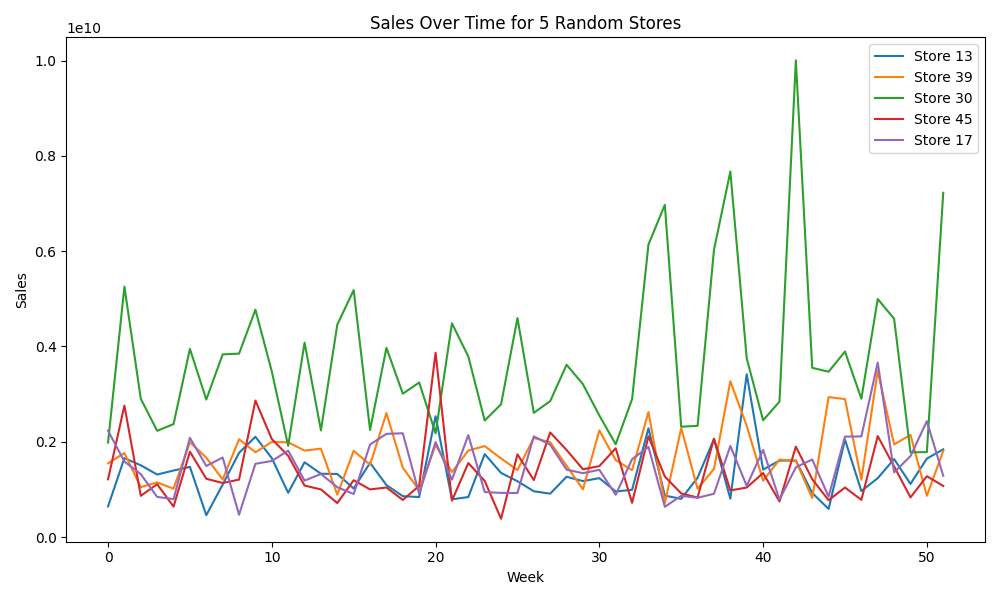
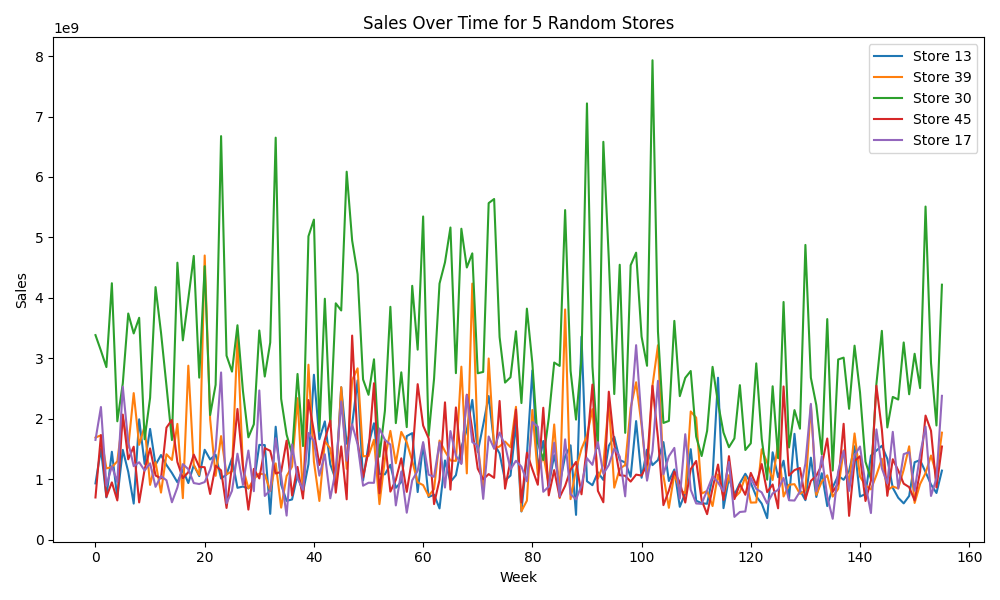
reran and adjusted visualizations

diff --git a/data_gen/data_viz.py b/data_gen/data_viz.py
@@ -173,7 +173,6 @@ plt.savefig(fig_dir / "sales_vs_ad_spend.png")
 plt.close()
 
 
-breakpoint()
 
 # 3. Sales vs store size scatterplot
 plt.figure(figsize=(6, 5))
@@ -225,7 +224,7 @@ plt.close()
 
 # 5. Sales vs relative price scatterplot
 plt.figure(figsize=(6, 5))
-plt.scatter(df["relative_price"], df["sales"], alpha=0.3)
+plt.scatter(df_panel["relative_price"], df_panel["sales"], alpha=0.3)
 plt.xlabel("Relative Price (Competitor Price / Own Price)")
 plt.ylabel("Sales")
 plt.title("Sales vs Relative Price")
@@ -235,13 +234,13 @@ plt.close()
 # 6. Sales by binned relative price
 
 # 6. Sales by binned relative price
-df["relative_price_bin"] = pd.cut( df["relative_price"],
+df_panel["relative_price_bin"] = pd.cut( df_panel["relative_price"],
     bins=[0.0, 0.8, 0.95, 1.05, 1.2, 5.0],
     labels=["<0.8", "0.80-0.95", "0.95-1.05", "1.05-1.20", "1.20+"],
      include_lowest=True )
 
-#sales_by_rel_price = df.groupby("relative_price_bin")["sales"].mean()
-sales_by_rel_price = df.groupby(
+#sales_by_rel_price = df_panel.groupby("relative_price_bin")["sales"].mean()
+sales_by_rel_price = df_panel.groupby(
     "relative_price_bin", observed=False
 )["sales"].mean()
 
@@ -257,13 +256,13 @@ plt.savefig(fig_dir / "sales_by_relative_price_bin.png")
 plt.close()
 
 # 7. Sales over time for 5 random stores
-unique_stores = df["store_id"].unique()
+unique_stores = df_panel["store_id"].unique()
 np.random.seed(42)
 sample_stores = np.random.choice(unique_stores, size=5, replace=False)
 
 plt.figure(figsize=(10, 6))
 for s in sample_stores:
-    sub = df[df["store_id"] == s].sort_values("week")
+    sub = df_panel[df_panel["store_id"] == s].sort_values("week")
     plt.plot(sub["week"], sub["sales"], label=f"Store {s}")
 
 plt.xlabel("Week")
